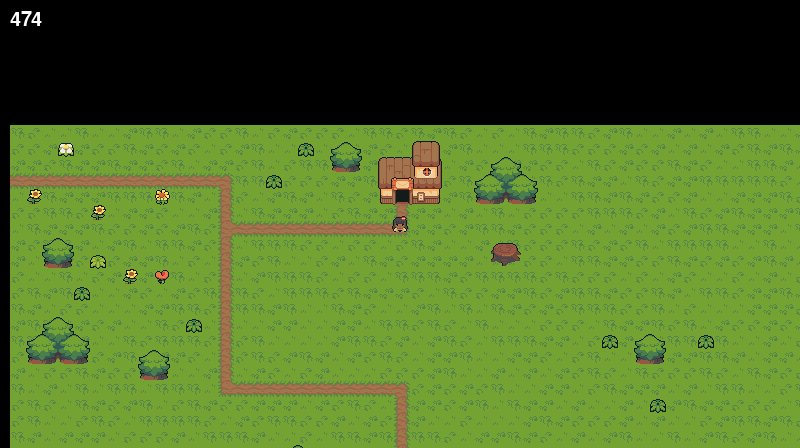
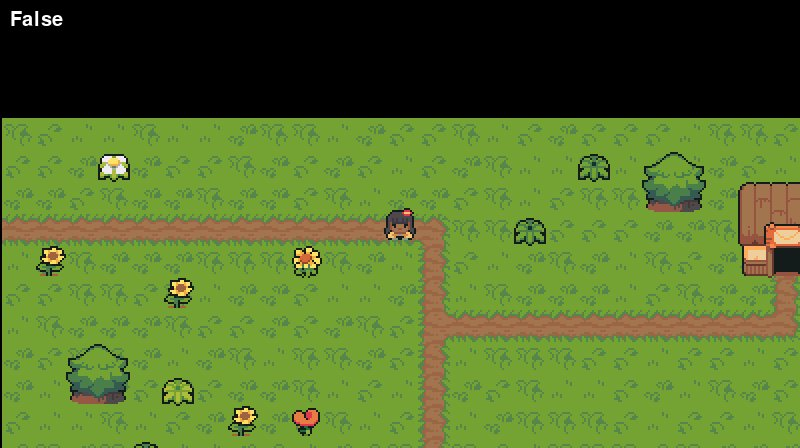
added curtain transition and rescaled levSel

Changed region(s): [[0.0, 0.25, 1.0, 1.0], [0.0, 0.0312, 0.0938, 0.0625]]

diff --git a/main.py b/main.py
@@ -19,6 +19,7 @@ class Game:
 		self.screen = pygame.display.set_mode((settings.DISPLAY_WIDTH, settings.DISPLAY_HEIGHT), flags=pygame.SCALED, vsync=1)
 		pygame.display.set_caption('Level Selector')
 		self.clock = pygame.time.Clock()
+		self.fade_counter = 0
 
 		self.level = Level()
 		self.levelOne = LevelOne()
@@ -41,7 +42,7 @@ class Game:
 		if settings.game_state == 0: 
 			image = pygame.image.load("LevelSelector/levelSelectorStart.jpg")
 		elif settings.game_state == 1:
-			image = pygame.image.load("LevelSelector/levelSelectorStart.jpg")
+			image = pygame.image.load("LevelSelector/levelOneStart.jpg")
 			
 		fade = pygame.Surface((settings.DISPLAY_WIDTH, settings.DISPLAY_HEIGHT))
 		fade.fill((0, 0, 0))
@@ -57,6 +58,12 @@ class Game:
 		self.fade_image = fade_image
 		self.fade_rect = self.fade_image.get_rect(topleft = (0, 0))
 		self.screen.blit(self.fade_image, self.fade_rect)
+
+	def curtain(self):
+		if self.fade_counter < settings.DISPLAY_WIDTH // 2: 
+			self.fade_counter += 4
+			pygame.draw.rect(self.screen, settings.BLACK, (0, 0, self.fade_counter, settings.DISPLAY_HEIGHT))
+			pygame.draw.rect(self.screen, settings.BLACK, (settings.DISPLAY_WIDTH - self.fade_counter, 0, settings.DISPLAY_WIDTH, settings.DISPLAY_HEIGHT))
 
 	def run(self):
 		while True:
@@ -75,6 +82,9 @@ class Game:
 							self.levelOne.player.attack(1)
 						if event.key == pygame.K_2:
 							self.levelOne.player.attack(2)
+						if event.key == pygame.K_k:
+							pygame.image.save(self.screen,"LevelSelector/levelOneStart.jpg")
+
 					if settings.game_state == 0:
 						pass
 
@@ -96,8 +106,11 @@ class Game:
 				if not settings.transition: 
 					self.level.run()
 				if settings.transition: 
-					# self.levelOne.loaded_up = True
-					self.fadeOut()
+					self.fade_counter = 0 
+					self.levelOne.loaded_up = True
+					# self.screen.fill('white')
+					self.curtain()
+					# self.fadeOut()
 					settings.transtion = False				
 
 			#Level 1

diff --git a/Levels/LevelOne/levelOne.py b/Levels/LevelOne/levelOne.py
@@ -143,19 +143,11 @@ class LevelOne():
                 boss.is_hurting = True
                 self.boss_hurt()
                 collided.collision_occurred = True
-<<<<<<< HEAD
-            elif not collided.collision_occurred and not player.is_attacking and boss.attacking_basic:
-                player.is_hurting = True
-                self.player_lives_update(0.5)
-                collided.collision_occurred = True
-            elif player.is_attacking and boss.attacking_basic and not collided.collision_occurred:
-=======
             elif not collided.collision_occurred and not player.is_attacking and boss.attacking_basic and not boss.attacking_special:
                 player.is_hurting = True
                 self.player_lives_update(0.5)
                 collided.collision_occurred = True
             elif player.is_attacking and (boss.attacking_basic or boss.attacking_special) and not collided.collision_occurred:
->>>>>>> 59606f9ee22a873b9269238f0385ccd14959593f
                 self.player_lives_update(0.5)
                 self.boss_hurt()
                 boss.is_hurting = True

diff --git a/LevelSelector/code/levelSelector.py b/LevelSelector/code/levelSelector.py
@@ -58,7 +58,7 @@ class YSortCameraGroup(pygame.sprite.Group):
 		self.half_height = self.screen.get_size()[1] // 2 
 		self.offset = pygame.math.Vector2(100, 200)
 
-		self.map_image = pygame.image.load("./LevelSelector/Tilemaps/levelSelector.png")
+		self.map_image = pygame.transform.scale(pygame.image.load("./LevelSelector/Tilemaps/levelSelector.png"), (865 * 2, 769 * 2))
 		self.map_rect = self.map_image.get_rect(topleft = (0, 0))
 
 	def custom_draw(self, player): 

diff --git a/LevelSelector/code/player.py b/LevelSelector/code/player.py
@@ -9,7 +9,7 @@ class Player(pygame.sprite.Sprite):
 		self.hitbox = self.rect.inflate(-10, 0)
 
 		self.direction = pygame.math.Vector2()
-		self.speed = 1.5
+		self.speed = 3
 
 		self.obstacle_sprites = obstacle_sprites
 		self.entrance_sprites = entrance_sprites
@@ -30,6 +30,7 @@ class Player(pygame.sprite.Sprite):
 			self.direction.x = -1
 		else: 
 			self.direction.x = 0
+
 
 	def move(self, speed): 
 		if self.direction.magnitude() != 0: 

diff --git a/settings.py b/settings.py
@@ -6,10 +6,10 @@ global transition
 transition = False
 
 FPS      = 60
-TILESIZE = 16
+TILESIZE = 32
 
 global game_state
-game_state = 1
+game_state = 0
 
 global difficulty
 difficulty = 2
@@ -19,3 +19,6 @@ save_level = 0
 
 global level_one_score
 level_one_score = 0
+
+#colors 
+BLACK = (0, 0, 0)
